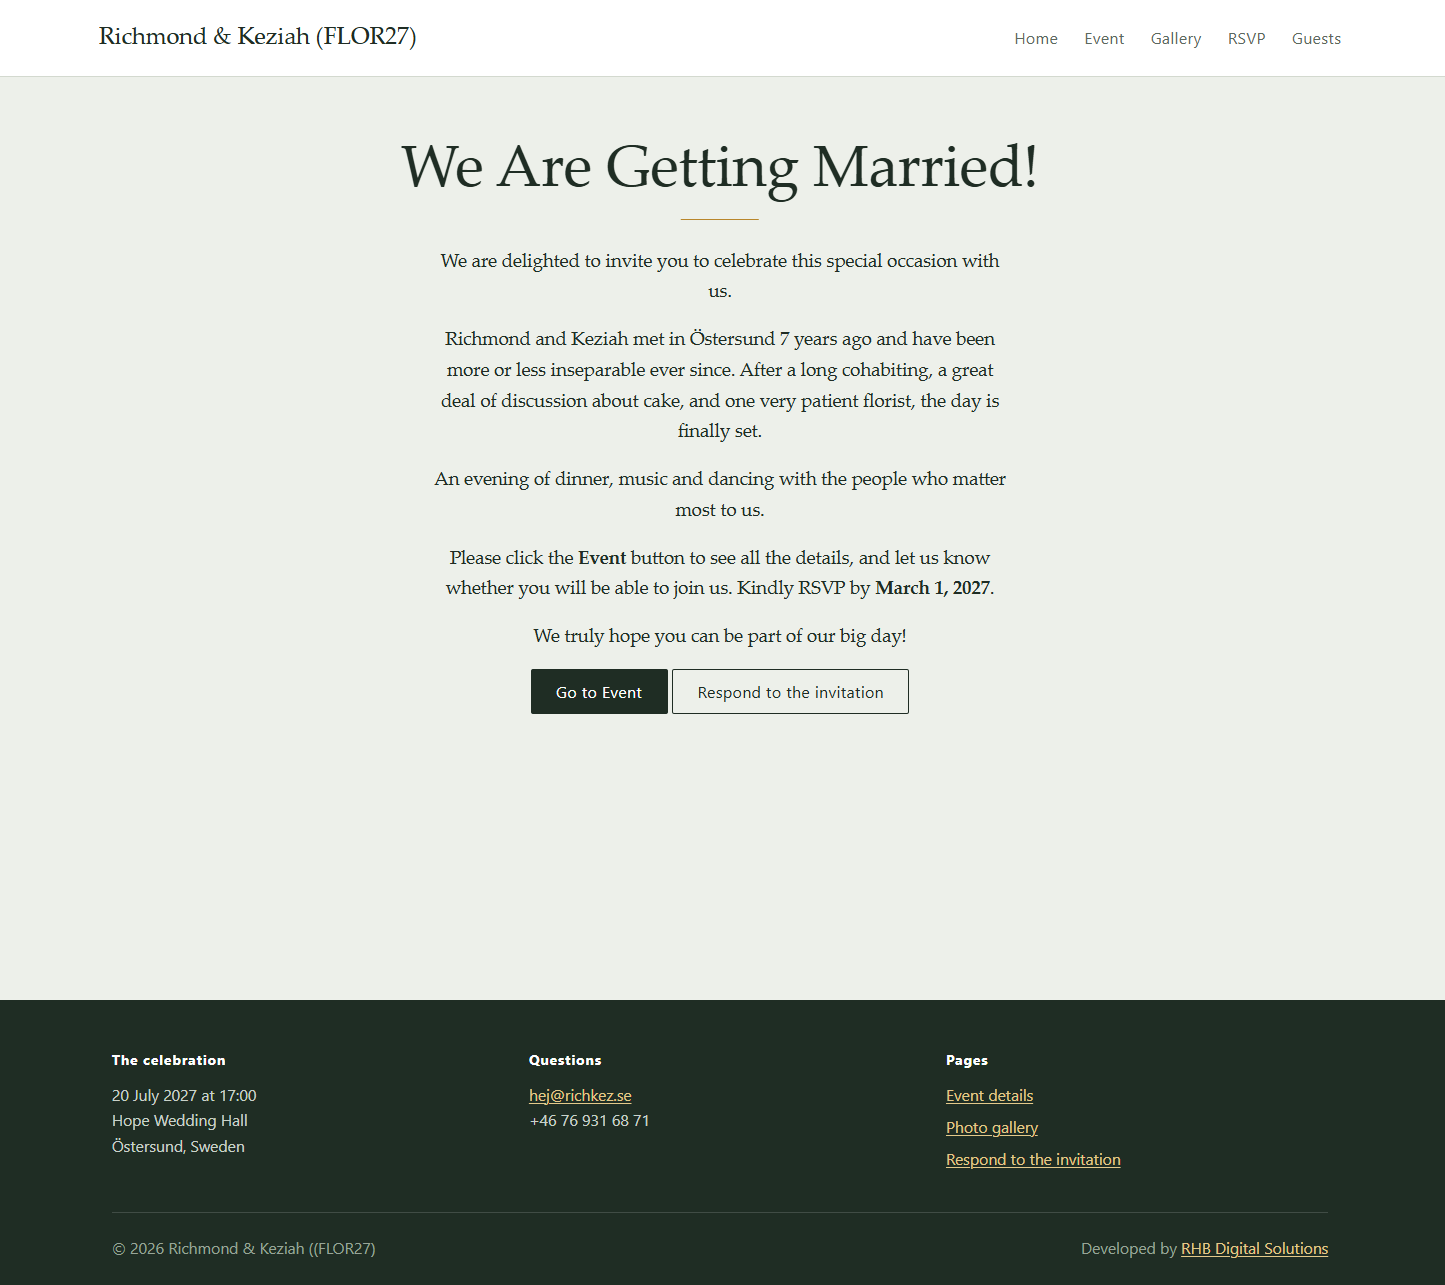
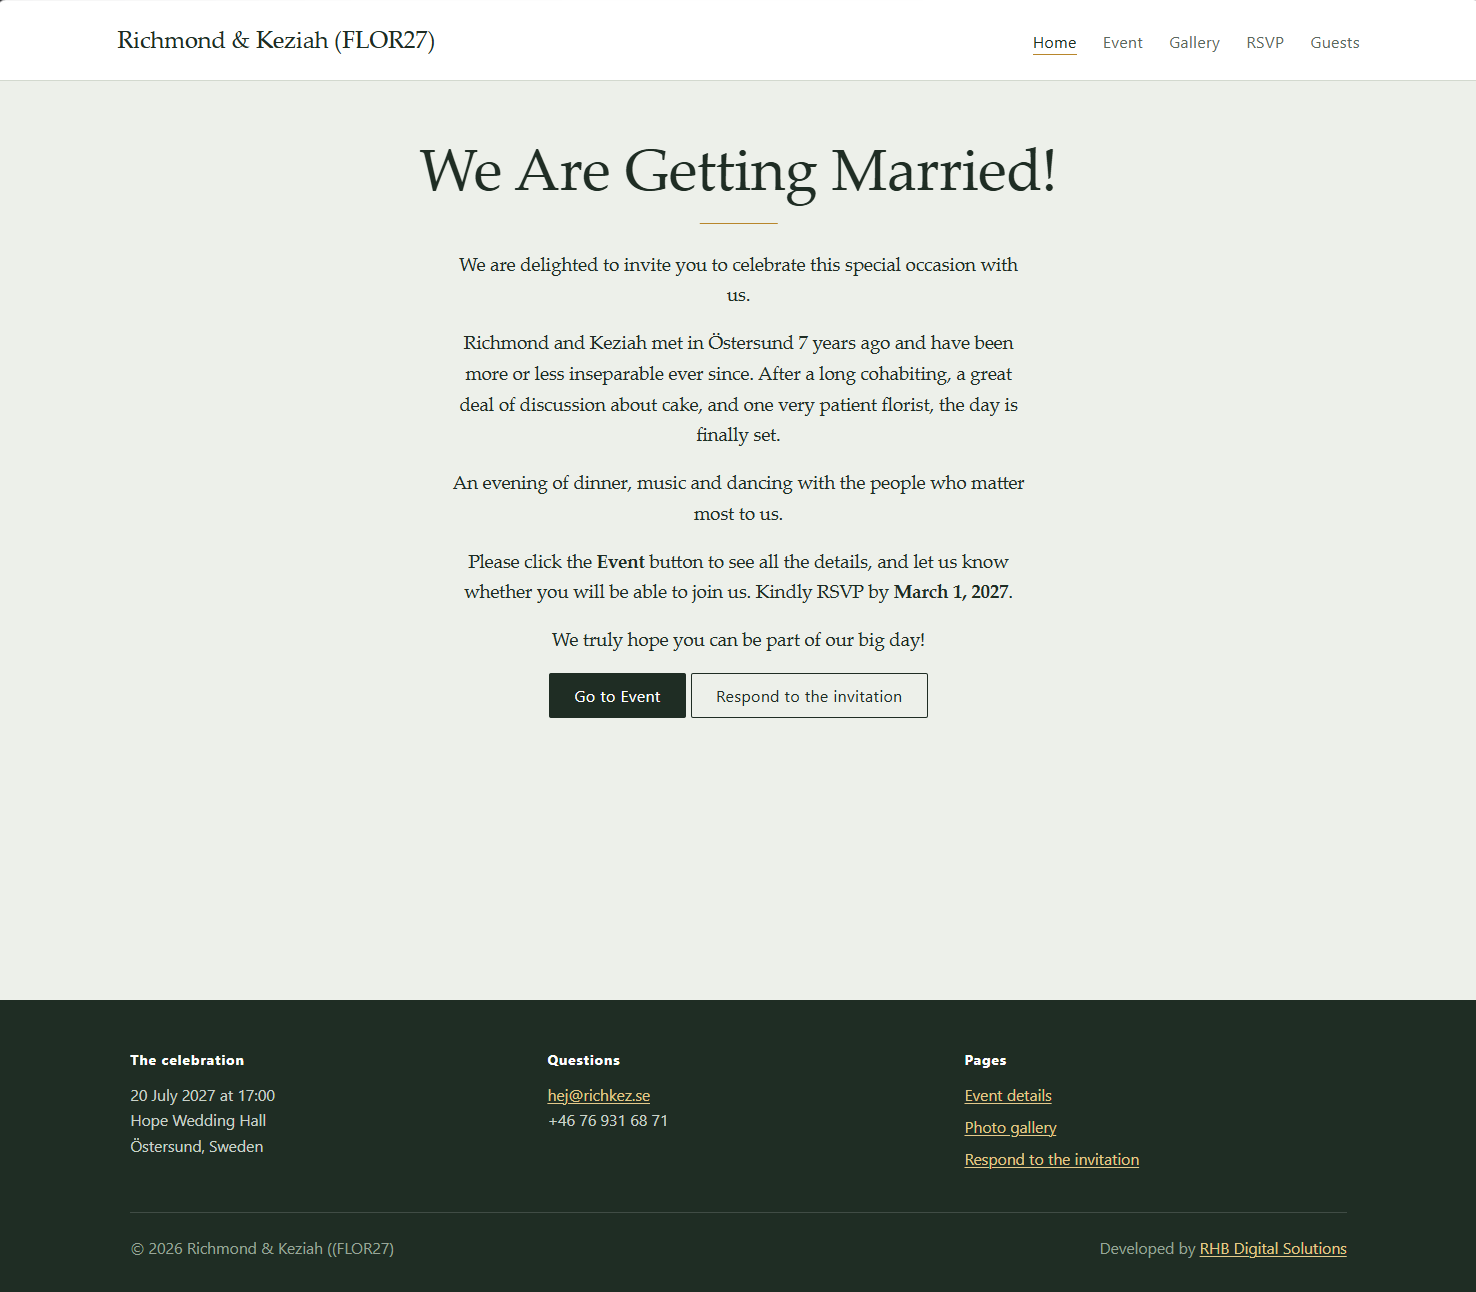
I have made some style changes and updated the screenshots with ones that shows the selected nav

diff --git a/WeddingApp/wwwroot/css/site.css b/WeddingApp/wwwroot/css/site.css
@@ -1,5 +1,5 @@
 /* --------------------------------------------------------------------------------
-   Wedding website - site styles
+  The  Wedding website - site styles
    Palette, typography and layout for the whole application. Bootstrap is
    loaded first and is overridden here.
    ========================================================================== */
